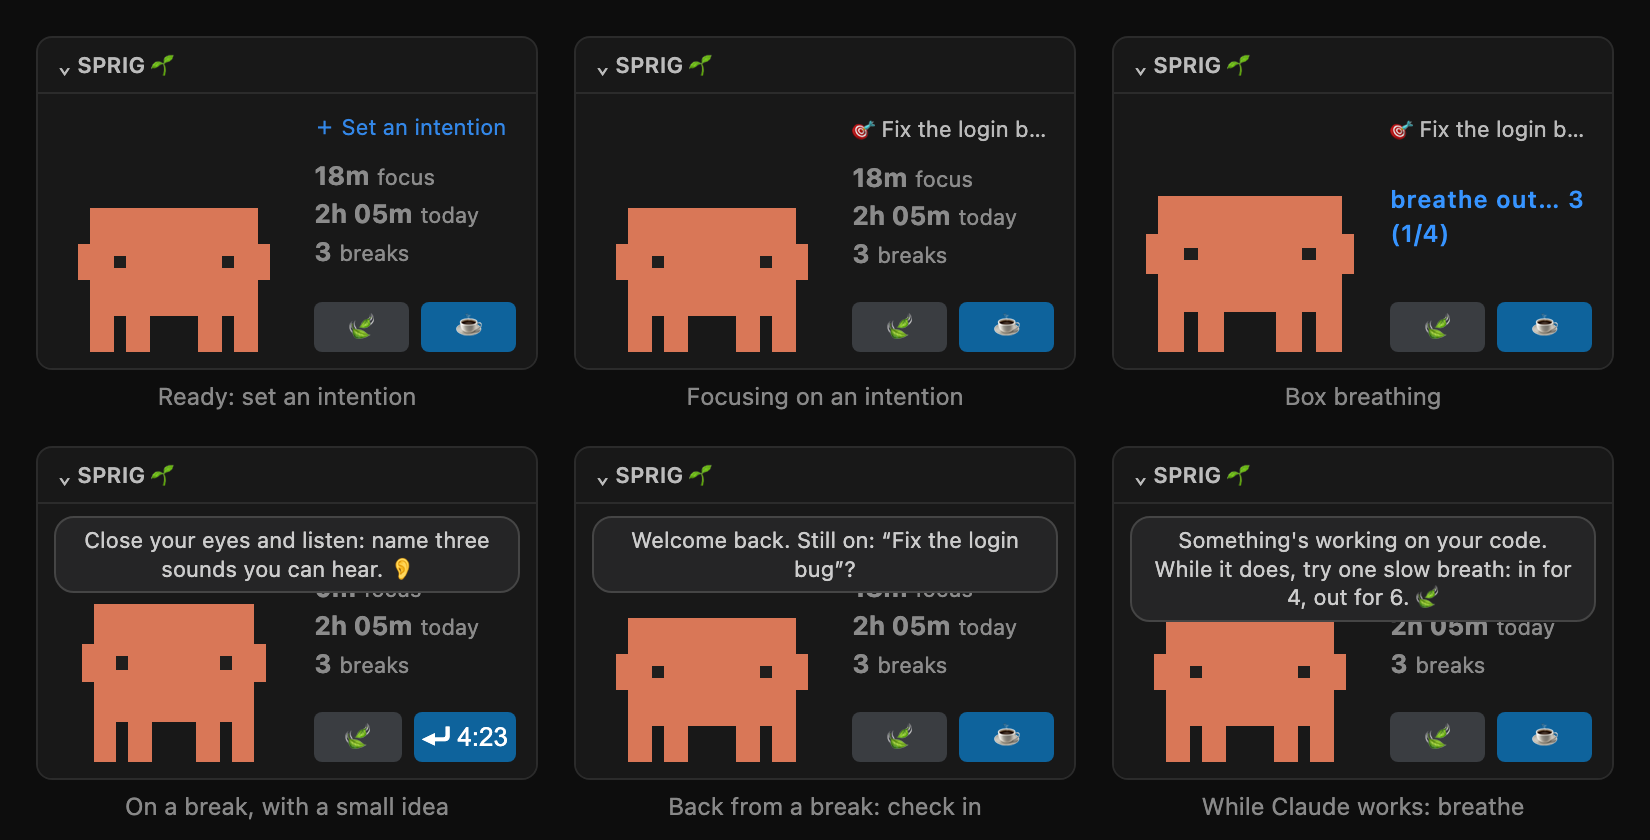
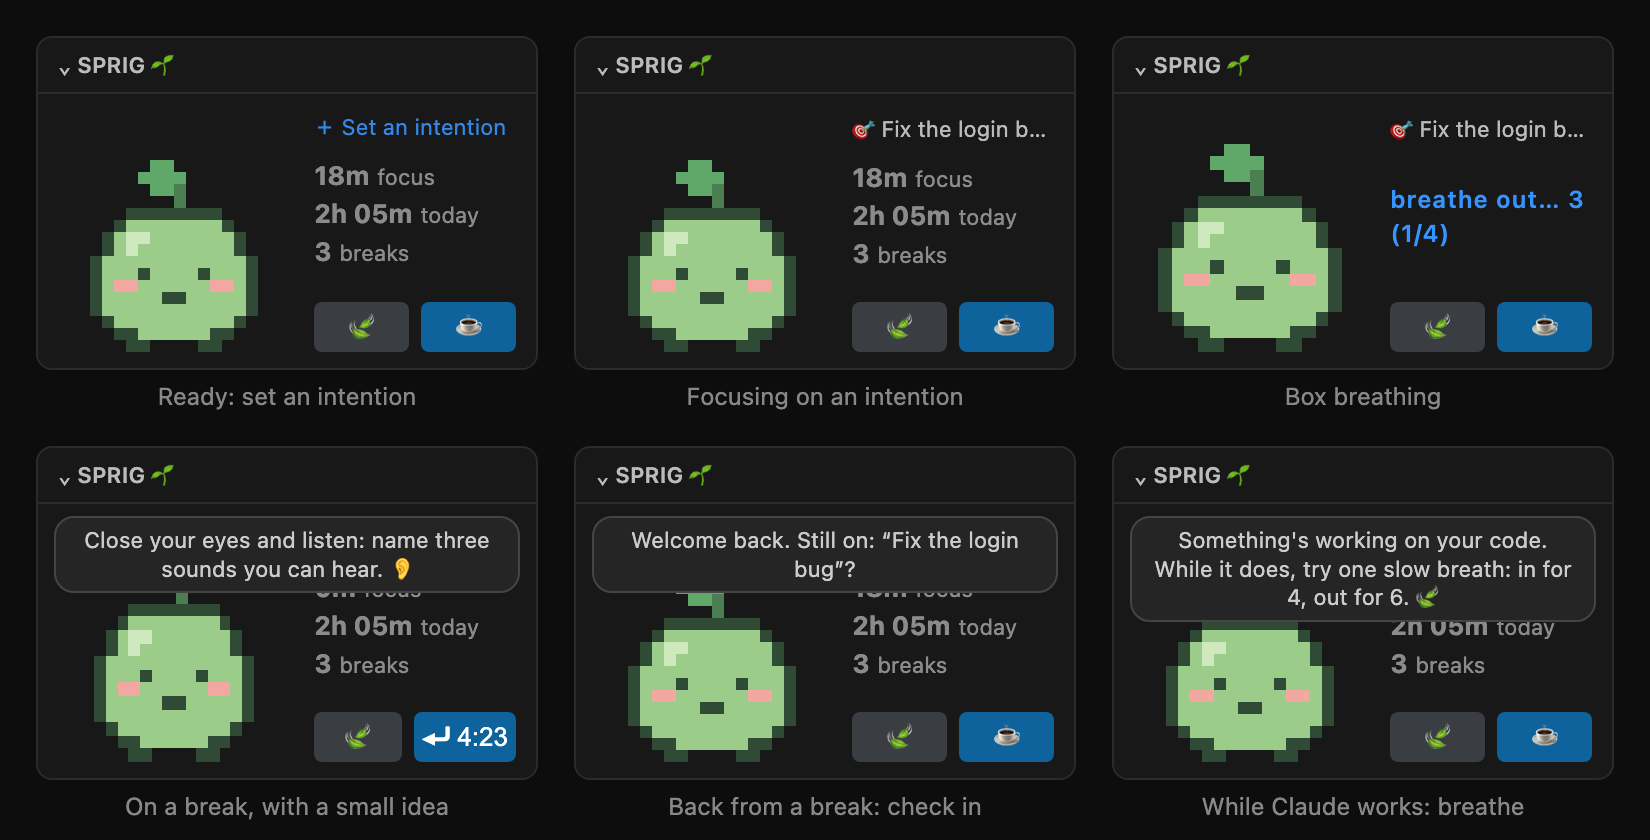
Make Sprig the Sprout the default pet, with Clawd second

diff --git a/media/pet.html b/media/pet.html
@@ -81,7 +81,7 @@ const stage = document.getElementById('stage');
 const SPRITES = {"sprout": {"name": "Sprig the Sprout", "lid": "b", "sway": 4, "pal": {"o": "#2f4a35", "b": "#9ccc8a", "h": "#cfe9bf", "e": "#2f4a35", "c": "#f2a7a0", "m": "#2f4a35", "l": "#5fa86a", "s": "#4b7f52"}, "grid": ["......ll........", ".....llll.......", "......lls.......", "........s.......", "....oooooooo....", "...obbbbbbbbo...", "..obhhbbbbbbbo..", "..obhbbbbbbbbo..", ".obbbebbbbebbbo.", ".obbbebbbbebbbo.", ".obccbbbbbbccbo.", ".obbbbbmmbbbbbo.", ".obbbbbbbbbbbbo.", "..obbbbbbbbbbo..", "...oobbbbbboo...", "....oo....oo...."]}, "cat": {"name": "Miso the Cat", "lid": "b", "sway": 3, "pal": {"o": "#3b2a20", "b": "#f0a65a", "h": "#f7c993", "p": "#f2a7a0", "e": "#3b2a20", "c": "#f2a7a0", "m": "#3b2a20", "k": "#7a5a44", "t": "#d98a3e"}, "grid": ["................", "..oo........oo..", "..opo......opo..", "..obpoooooopbo..", "..obbbbbbbbbbo..", ".obhbbbbbbbbbbo.", ".obbbebbbbebbbo.", ".obbbebbbbebbbo.", "kobcbbbmmbbbcbok", ".obbbbbbbbbbbbo.", "..obttbbbbttbo..", "..obbbbbbbbbbo..", "..obbbbbbbbbbo.o", "..obbobbbbobbo.o", "...oo.oooo.oo.o.", "................"]}, "ghost": {"name": "Boo the Ghost", "lid": "b", "sway": 0, "pal": {"o": "#4a4466", "b": "#eceaf7", "h": "#ffffff", "e": "#2d2840", "c": "#f5b8c8", "m": "#2d2840"}, "grid": ["................", "................", ".....oooooo.....", "....obbbbbbo....", "...obhbbbbbbo...", "..obhbbbbbbbbo..", "..obbebbbbebbo..", "..obbebbbbebbo..", "..obcbbbbbbcbo..", "..obbbbmmbbbbo..", "..obbbbbbbbbbo..", "..obbbbbbbbbbo..", "..obbbbbbbbbbo..", "..obbobbobbobbo.", "..oo.oo.oo.oo...", "................"]}, "robot": {"name": "Bolt the Robot", "lid": "b", "sway": 2, "pal": {"o": "#2b3440", "b": "#a9bccf", "h": "#d5e2ee", "e": "#38e0c0", "a": "#ff6b6b", "s": "#6d7f91", "c": "#ffd166", "m": "#2b3440", "g": "#6d7f91"}, "grid": [".......a........", ".......s........", "...oooooooooo...", "..obhhbbbbbbbo..", "..obhbbbbbbbbo..", "..obbeebbeebbo..", "..obbeebbeebbo..", "..obbbbbbbbbbo..", "..obbbmmmmbbbo..", "...oooooooooo...", "..ooggggggggoo..", "..ogoggcacgogo..", "..ogoggggggogo..", "....oooooooo....", ".....oo..oo.....", "....ooo..ooo...."]}, "frog": {"name": "Pip the Frog", "lid": "b", "sway": 0, "pal": {"o": "#23402a", "b": "#7cc46a", "h": "#a8dc94", "w": "#ffffff", "e": "#23402a", "c": "#f2a7a0", "m": "#23402a", "y": "#d8eeb0"}, "grid": ["................", "................", "..oooo....oooo..", ".oweewo..oweewo.", ".oweewo..oweewo.", ".obbbbobbobbbbo.", ".obbbbbbbbbbbbo.", ".obhbbbbbbbbbbo.", ".obcbbbbbbbbcbo.", ".obbbmmmmmmbbbo.", "..obbbbbbbbbbo..", "..obyyyyyyyybo..", ".obbyyyyyyyybbo.", ".obbbbbbbbbbbbo.", "oobboooooooobboo", "................"]}, "penguin": {"name": "Waddle the Penguin", "lid": "w", "sway": 0, "pal": {"o": "#1d2433", "d": "#3b4a66", "w": "#f5f7fb", "e": "#1d2433", "c": "#f5b8c8", "y": "#f5a623", "m": "#1d2433"}, "grid": ["................", ".....oooooo.....", "....oddddddo....", "...oddddddddo...", "...odwwddwwdo...", "...odwewwewdo...", "...odwewwewdo...", "...odcwyywcdo...", "..oddwwmmwwddo..", "..odwwwwwwwwdo..", ".oddwwwwwwwwddo.", ".oddwwwwwwwwddo.", "..odwwwwwwwwdo..", "...odwwwwwwdo...", "....oyyoooyyo...", "................"]}, "mug": {"name": "Bean the Coffee Mug", "lid": "b", "sway": 4, "pal": {"o": "#4a2c22", "b": "#f3e6d6", "h": "#ffffff", "e": "#4a2c22", "c": "#f2a7a0", "m": "#4a2c22", "k": "#7a4a33", "s": "#c9c2bb"}, "grid": ["....s...s.......", ".....s...s......", "....s...s.......", ".....s...s......", "..oooooooooo....", "..okkkkkkkko....", "..obhbbbbbbooo..", "..obhbbbbbbo.o..", "..obebbbbebo.o..", "..obebbbbebo.o..", "..obcbmmbcbo.o..", "..obbbbbbbbooo..", "..obbbbbbbbo....", "...obbbbbbo.....", "....oooooo......", "................"]}, "alien": {"name": "Zib the Alien", "lid": "b", "sway": 2, "pal": {"o": "#1f2a24", "b": "#9be36d", "h": "#c9f5a8", "e": "#151a24", "m": "#1f2a24", "d": "#7a6cf0", "a": "#ff5fd2", "s": "#5fae4a", "c": "#f2a7a0"}, "grid": ["...a........a...", "....s......s....", ".....oooooo.....", "....obbbbbbo....", "...obhbbbbbbo...", "..obhbbbbbbbbo..", "..obeeebbeeebo..", "..obeeebbeeebo..", "..obceebbeecbo..", "...obbbmmbbbo...", "....obbbbbbo....", "...ooddddddoo...", "..ododdddddodo..", "..oo.oddddo.oo..", ".....oo..oo.....", "................"]}, "computer": {"name": "Byte the Computer", "lid": "g", "sway": 0, "pal": {"o": "#3a3530", "s": "#d9d2c3", "g": "#123b2a", "h": "#2f6b50", "e": "#5cff9d", "m": "#5cff9d", "a": "#ff6b6b", "k": "#9b9484"}, "grid": ["................", "..oooooooooooo..", "..osssssssssso..", "..oshgggggggso..", "..osgeggggegso..", "..osgeggggegso..", ".oosggggggggsoo.", "o.osgggmmgggso.o", "..osggggggggso..", "..osssssssssso..", "..osssssakssso..", "..oooooooooooo..", "....oo....oo....", "....oo....oo....", "...ooo....ooo...", "................"]}, "bunny": {"name": "Mochi the Bunny", "lid": "b", "sway": 4, "pal": {"o": "#5a4a52", "b": "#f4eef0", "h": "#ffffff", "p": "#f7b6c8", "e": "#3a2e35", "c": "#f7a8b8", "m": "#3a2e35", "w": "#fffafc"}, "grid": ["....oo....oo....", "...obpo..opbo...", "...obpo..opbo...", "...obpo..opbo...", "..oobboooobboo..", "..obbbbbbbbbbo..", ".obhbbbbbbbbbbo.", ".obbbebbbbebbbo.", ".obbbebbbbebbbo.", ".obccbbmmbbccbo.", ".obbbbbbbbbbbbo.", "..obbwwwwwwbbo..", "..obwwwwwwwwbo..", "..obbwwwwwwbbo..", "...oobbbbbboo...", "....oooooooo...."]}, "fox": {"name": "Ember the Fox", "lid": "b", "sway": 5, "pal": {"o": "#4a2a1c", "b": "#f08a3c", "k": "#3b2a20", "w": "#fff4e6", "e": "#2a1a12", "m": "#2a1a12"}, "grid": ["................", "..o..........o..", "..oo........oo..", "..oko......oko..", "..okbo....obko..", "..obbboooobbbo..", ".obbbbbbbbbbbbo.", ".obbebbbbbbebbo.", ".obbebbbbbbebbo.", "obwwwbbbbbbwwwbo", ".owwwwwmmwwwwwo.", "..owwwwwwwwwwo..", "...oowwwwwwoo...", "....obbbbbbo....", "...obbbbbbbbo...", "...oooooooooo..."]}, "axolotl": {"name": "Lumi the Axolotl", "lid": "b", "sway": 0, "pal": {"o": "#7a3e5a", "b": "#ffc2d8", "h": "#ffe4ee", "g": "#ff7aa8", "e": "#3a1e2c", "c": "#ff8fb0", "m": "#3a1e2c"}, "grid": ["................", "................", "....oooooooo....", "g.oobbbbbbbboo.g", ".gobhbbbbbbbbog.", "ggobbbbbbbbbbogg", ".gobbebbbbebbog.", "g.obbebbbbebbo.g", "..obcbbmmbbcbo..", "..obbbbbbbbbbo..", "...obbbbbbbbo...", "..obbbbbbbbbbo..", ".obbobbbbbbobbo.", ".oo.obbbbbbo.oo.", ".....oooooo.....", "................"]}, "panda": {"name": "Bao the Panda", "lid": "k", "sway": 0, "pal": {"o": "#222222", "k": "#2b2b2b", "b": "#f7f7f2", "h": "#ffffff", "e": "#ffffff", "n": "#222222", "m": "#333333", "c": "#f5b8c8"}, "grid": ["................", "..ooo......ooo..", ".okkko....okkko.", ".okkooooooookko.", "..obbbbbbbbbbo..", ".obhbbbbbbbbbbo.", ".obkkbbbbbbkkbo.", ".okkekbbbbkekko.", ".okkekbbbbkekko.", ".obkkbbnnbbkkbo.", ".obcbbbmmbbbcbo.", "..obbbbbbbbbbo..", "..okkbbbbbbkko..", ".okkkbbbbbbkkko.", "..okkooooookko..", "...oo......oo..."]}, "duck": {"name": "Puddle the Duckling", "lid": "y", "sway": 1, "pal": {"o": "#6b4a12", "y": "#ffd84a", "h": "#fff1a8", "e": "#2a1e08", "a": "#ff9a3c", "m": "#c4621a", "c": "#ffb0a0"}, "grid": ["......o.o.......", ".....oooooo.....", "....oyyyyyyo....", "...oyhyyyyyyo...", "...oyyyyyyyyo...", "...oyeyyyyeyo...", "...oyeyyyyeyo...", "...ocyaaaayco...", "...oyyammayyo...", "..ooyyyaayyyoo..", ".oyyyyyyyyyyyyo.", ".oyyyyyyyyyyyyo.", ".oyyyyyyyyyyyyo.", "..oyyyyyyyyyyo..", "...oooooooooo...", "....aa....aa...."]}, "octopus": {"name": "Inky the Octopus", "lid": "b", "sway": 0, "pal": {"o": "#3e2a5c", "b": "#b48cf0", "h": "#d8c4ff", "e": "#1e1430", "c": "#ff9fc8", "m": "#1e1430"}, "grid": ["................", ".....oooooo.....", "....obbbbbbo....", "...obhhbbbbbo...", "..obhbbbbbbbbo..", "..obbbbbbbbbbo..", "..obbebbbbebbo..", "..obbebbbbebbo..", "..obcbbmmbbcbo..", "..obbbbbbbbbbo..", ".oobbbbbbbbbboo.", ".obbobbbbbbobbo.", ".obo.obbbbo.obo.", "oo...obo.obo..oo", ".....oo...oo....", "................"]}, "dragon": {"name": "Cinder the Dragon", "lid": "b", "sway": 0, "pal": {"o": "#1e3a3a", "b": "#5cc6a8", "h": "#9ff0d6", "k": "#f5d26b", "e": "#102020", "c": "#ff9f9f", "m": "#102020", "y": "#f7e3a1", "w": "#3e8f7a"}, "grid": ["...o........o...", "...ko......ok...", "...kkooooookk...", "...obbbbbbbbo...", "..obhbbbbbbbbo..", "..obbbbbbbbbbo..", "..obbebbbbebbo..", "..obbebbbbebbo..", "..obcbbbbbbcbo..", "..obbbmmmmbbbo..", "w.oobbbbbbbboo.w", "wwobbyyyyyybboww", ".wobbyyyyyybbow.", "..obbyyyyyybbo..", "...oboooooobo...", "...oo......oo..."]}, "mushroom": {"name": "Morel the Mushroom", "lid": "b", "sway": 0, "pal": {"o": "#4a1e1e", "r": "#e8524a", "w": "#fff4ea", "b": "#f6e6cf", "e": "#2a1a12", "c": "#f2a7a0", "m": "#2a1a12"}, "grid": ["................", ".....oooooo.....", "...oorrrrrroo...", "..orwwrrrrrrro..", ".orrwwrrrrwwrro.", ".orrrrrrrrwwrro.", "orrwwrrrrrrrrrro", "oooooooooooooooo", "...obbbbbbbbo...", "...obebbbbebo...", "...obebbbbebo...", "...ocbbmmbbco...", "...obbbbbbbbo...", "...obbbbbbbbo...", "....obbbbbbo....", "....oooooooo...."]}, "hamster": {"name": "Nugget the Hamster", "lid": "b", "sway": 0, "pal": {"o": "#5a3a1e", "b": "#e8a860", "h": "#f5cf98", "p": "#f7b0b8", "w": "#fff4e4", "e": "#2a1a10", "c": "#f7a0a8", "m": "#2a1a10"}, "grid": ["................", "................", "...oo......oo...", "..opbo....obpo..", "..obboooooobbo..", ".obbbbbbbbbbbbo.", ".obhbbbbbbbbbbo.", "obbbebbbbbbebbbo", "obbbebbbbbbebbbo", "obccwwwmmwwwccbo", "obbwwwwwwwwwwbbo", ".obwwwwwwwwwwbo.", ".obbwwwwwwwwbbo.", "..obbbbbbbbbbo..", "...oppooooppo...", "................"]}, "owl": {"name": "Hoot the Owl", "lid": "w", "sway": 0, "pal": {"o": "#3a2a1e", "b": "#8a6a4a", "w": "#fff8ec", "e": "#1e140c", "a": "#f5a623", "m": "#3a2a1e", "y": "#e8d4b0"}, "grid": ["................", "..o..........o..", "..oo........oo..", "..oboooooooobo..", "..obbbbbbbbbbo..", ".obwwwbbbbwwwbo.", ".obwewbbbbwewbo.", ".obwewbaabwewbo.", ".obwwwbmmbwwwbo.", ".obbbbbbbbbbbbo.", ".obyyyyyyyyyybo.", "obbyyyyyyyyyybbo", "obbyyyyyyyyyybbo", ".obbyyyyyyyybbo.", "..oooooooooooo..", "....aa....aa...."]}, "slime": {"name": "Gloop the Slime", "lid": "b", "sway": 0, "pal": {"o": "#1e4a6a", "b": "#6ad0ff", "h": "#c8f0ff", "e": "#0e2236", "c": "#ff9fc8", "m": "#0e2236"}, "grid": ["................", "................", "................", "......oooo......", "....oobbbboo....", "...obhhbbbbbo...", "..obhbbbbbbbbo..", "..obbebbbbebbo..", ".obbbebbbbebbbo.", ".obcbbbmmbbbcbo.", ".obbbbbbbbbbbbo.", "obbbbbbbbbbbbbbo", "obbbbbbbbbbbbbbo", "obbbbbbbbbbbbbbo", ".oooooooooooooo.", "................"]}, "bee": {"name": "Buzz the Bee", "lid": "y", "sway": 2, "pal": {"o": "#2a2410", "y": "#ffd23f", "h": "#fff0a0", "k": "#2a2410", "e": "#1a160a", "c": "#ff9f8f", "m": "#1a160a", "w": "#d8f0ff"}, "grid": ["...o........o...", "....o......o....", "....oooooooo....", "...oyyyyyyyyo...", "..oyhyyyyyyyyo..", "..oyyeyyyyeyyo..", "..oyyeyyyyeyyo..", "..oycyymmyycyo..", "ww.oyyyyyyyyo.ww", "wwwokkkkkkkkowww", ".wwoyyyyyyyyoww.", "...okkkkkkkko...", "...oyyyyyyyyo...", "....okkkkkko....", ".....oooooo.....", ".......oo......."]}, "clawd": {"name": "Clawd", "lid": "b", "sway": 0, "pal": {"b": "#d97757", "e": "#1f1e1d", "m": "#1f1e1d"}, "grid": ["................", "................", "................", "................", ".bbbbbbbbbbbbbb.", ".bbbbbbbbbbbbbb.", ".bbbbbbbbbbbbbb.", "bbbebbbbbbbbebbb", "bbbebbbbbbbbebbb", "bbbbbbbbbbbbbbbb", ".bbbbbbbbbbbbbb.", ".bbbbbbbbbbbbbb.", ".bbbbbbbbbbbbbb.", ".bb.bb....bb.bb.", ".bb.bb....bb.bb.", ".bb.bb....bb.bb."]}};
 let SPR, SPRITE, PAL, EYE_ROWS, LAST_EYE_ROW, MOUTH;
 function setPet(id) {
-  SPR = SPRITES[id] || SPRITES.clawd;
+  SPR = SPRITES[id] || SPRITES.sprout;
   SPRITE = SPR.grid; PAL = SPR.pal;
   EYE_ROWS = SPRITE.map((r,i)=>r.includes('e')?i:-1).filter(i=>i>=0);
   LAST_EYE_ROW = EYE_ROWS[EYE_ROWS.length-1];
@@ -234,7 +234,7 @@ cvs.title = 'Click to pet · double-click to change pet';
 
 document.getElementById('intent').onclick = () => vscode.postMessage({ type: 'intent' });
 document.getElementById('petName').onclick = () => vscode.postMessage({ type: 'choosePet' });
-setPet('clawd');
+setPet('sprout');
 requestAnimationFrame(draw);
 vscode.postMessage({ type: 'ready' });
 </script>

diff --git a/extension.js b/extension.js
@@ -295,6 +295,7 @@ function suggestBreak() {
 
 const PETS = [
   { id: 'sprout', label: '🌱 Sprig the Sprout' },
+  { id: 'clawd', label: '🧡 Clawd' },
   { id: 'cat', label: '🐱 Miso the Cat' },
   { id: 'ghost', label: '👻 Boo the Ghost' },
   { id: 'robot', label: '🤖 Bolt the Robot' },
@@ -314,8 +315,7 @@ const PETS = [
   { id: 'hamster', label: '🐹 Nugget the Hamster' },
   { id: 'owl', label: '🦉 Hoot the Owl' },
   { id: 'slime', label: '💧 Gloop the Slime' },
-  { id: 'bee', label: '🐝 Buzz the Bee' },
-  { id: 'clawd', label: '🧡 Clawd' }
+  { id: 'bee', label: '🐝 Buzz the Bee' }
 ];
 
 async function choosePet() {

diff --git a/docs/make-screenshots.py b/docs/make-screenshots.py
@@ -53,7 +53,7 @@ tmp = tempfile.mkdtemp()
 for name, msgs in STATES.items():
     posts = "".join(f"postMessage({json.dumps(m, ensure_ascii=False)},'*');" for m in msgs if m["type"] != "say")
     posts += "".join(f"setTimeout(()=>postMessage({json.dumps(m, ensure_ascii=False)},'*'),8500);" for m in msgs if m["type"] == "say")
-    script = f"<script>setTimeout(()=>{{postMessage({{type:'pet',id:'clawd'}},'*');{posts}}},50);</script></body>"
+    script = f"<script>setTimeout(()=>{{postMessage({{type:'pet',id:'sprout'}},'*');{posts}}},50);</script></body>"
     open(os.path.join(tmp, name + ".html"), "w").write(panel.replace("</body>", script))
 
 # 1. Compact panel states (the default sidebar size)
@@ -71,7 +71,7 @@ shoot("tall.html", "panel-tall.png", 298, 386)
 gallery = f"""<html><head>{STYLE}<style>.g{{display:grid;grid-template-columns:repeat(6,120px);gap:10px;padding:18px}}
 .p{{background:#181818;border:1px solid #2b2b2b;border-radius:8px;padding:10px 0 8px;text-align:center}}canvas{{image-rendering:pixelated}}</style></head>
 <body><div class="g" id="g"></div><script>const S={json.dumps(sprites, ensure_ascii=False)};
-const order=['clawd',...Object.keys(S).filter(k=>k!=='clawd')];
+const order=['sprout','clawd',...Object.keys(S).filter(k=>k!=='sprout'&&k!=='clawd')];
 for(const k of order){{const s=S[k],d=document.createElement('div');d.className='p';const c=document.createElement('canvas');c.width=c.height=80;
 const x=c.getContext('2d');s.grid.forEach((r,i)=>[...r].forEach((ch,j)=>{{if(ch!=='.'){{x.fillStyle=s.pal[ch];x.fillRect(j*5,i*5,5,5);}}}}));
 d.appendChild(c);const n=document.createElement('div');n.textContent=s.name;n.style.marginTop='6px';d.appendChild(n);g.appendChild(d);}}</script></body></html>"""

diff --git a/README.md b/README.md
@@ -38,7 +38,7 @@ Sprig is built around one loop: **intention → focus → break → reflect.**
 
 ## 22 pets
 
-Clawd is the default. Change pets with **Sprig: Choose Pet** (↑/↓ previews each one live in the panel) or double-click the pet.
+Sprig the Sprout is the default, with Clawd next in the list. Change pets with **Sprig: Choose Pet** (↑/↓ previews each one live in the panel) or double-click the pet.
 
 ![All 22 pets](docs/screenshots/pets.png)
 
@@ -76,7 +76,7 @@ Open the Command Palette (Cmd/Ctrl+Shift+P) and type "Sprig":
 
 | Setting | Default | |
 |---|---|---|
-| `sprig.pet` | `clawd` | Which pet keeps you company |
+| `sprig.pet` | `sprout` | Which pet keeps you company |
 | `sprig.focusMinutes` | `25` | Minutes of active coding before a break is suggested |
 | `sprig.breakMinutes` | `5` | Length of a break |
 | `sprig.eyeReminderMinutes` | `20` | 20-20-20 eye rest interval (0 turns it off) |
